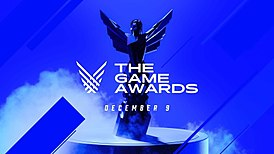
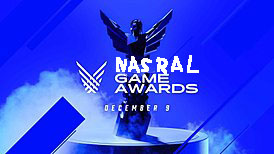
sin miagu

diff --git a/index.html b/index.html
@@ -1,6 +1,7 @@
 <!DOCTYPE html>
 <html lang="ru">
     <head>
+		<link rel="icon" href="nasral.ico" type="image/x-icon">
         <meta charset="UTF-8">
         <meta name="viewport" content="width=device-width, initial-scale=1.0">
         <title>Nasral Inc.</title>
@@ -16,14 +17,16 @@
 		</header>
 		<center>
 			<h1>Наши игры</h1>
+			<div class="container">
 			<h2>Need For Geroin XD2000</h2>
 			<img src="printersosi.png" width="25%">
-			<div class="furrygayporn">
+			<div class="nasralgameawards">
 			 &emsp;&emsp; <img src="The_Game_Awards_2021_poster.jpg"> <p>Эта короч наша премия</p><p>"насрал гейм авордс"</p>
 			</div>
 			<h2>Самая лучшая игра в игровой индустрии.</h2>
 			<h2>Здесь вы можете представить себя настоящим гонщиком и водителем (В мечтах).</h2>
 			<a href="https://honakac.itch.io/nfgxd2000"><h2>скачат</h2></a>
+			</div>
 		</center>
 		<footer>
 				<br>

diff --git a/styles.css b/styles.css
@@ -31,7 +31,7 @@ footer {
 	display: inline-block;
 }
 
-.furrygayporn {
+.nasralgameawards {
 	display: inline-block;
 }
 
@@ -40,3 +40,14 @@ a[href^="https://honakac.itch.io"]{
 	text-decoration: none;
 	text-transform: uppercase;
 }
+
+.container {
+	width: 80%;
+	border-top-right-radius: 90px;
+	border-bottom-left-radius: 90px;
+	border-bottom-right-radius: 90px;
+	border-top-left-radius: 90px;
+	margin: 0 auto;
+	padding: 20px;
+	background-color: #1c1c1c;
+  }
